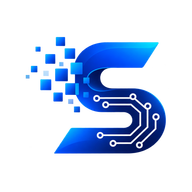
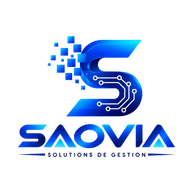
feat(pwa): add premium SAOVIA splash screen (Android + iOS)
Adds a standalone-only PWA launch splash (PwaSplashScreen.tsx), shown
purely via a `@media (display-mode: standalone)` CSS rule so a regular
browser tab is never affected. Visibility is gated on the real `load`
event (plus a floor for smoothness and a safety cap so it can never
block the app), not a bare setTimeout.

- Manifest: background_color #071B49, theme_color #0B5ED7,
  orientation portrait-primary, maskable icon entry.
- iOS: apple-mobile-web-app-* meta tags, apple-touch-icon link,
  viewport-fit=cover for safe-area support.
- All icons (pwa-192/512, maskable-512, apple-touch-icon) and the
  splash logo regenerated from the official SAOVIA logo via
  scripts/generate-pwa-assets.mjs — trimmed and re-centered on its own
  transparent/navy canvas, never redrawn.

Changed region(s): [[0.0938, 0.1875, 0.9062, 0.8438], [0.1562, 0.2188, 0.2188, 0.2812]]

diff --git a/src/routes/__root.tsx b/src/routes/__root.tsx
@@ -80,6 +80,22 @@ function isRestaurantRoute(pathname: string) {
   return pathname === "/restaurant" || pathname.startsWith("/restaurant/");
 }
 
+// Vitrine publique de commande d'un restaurant (/r/:tenantSlug). Entièrement
+// anonyme (aucune session ERP/Hôtel ni Restaurant admin requise) : le tenant
+// est résolu depuis le slug de l'URL via restaurantSupabase, jamais depuis
+// une session.
+function isPublicOrderingRoute(pathname: string) {
+  return pathname === "/r" || pathname.startsWith("/r/");
+}
+
+// Vitrine publique SAOVIA Hôtel (/hotel-vitrine, /hotel-vitrine/hotels,
+// /hotel-vitrine/hotels/:slug). Entièrement anonyme, sans rapport avec le
+// back-office /hotel/* (qui reste protégé par la garde ci-dessous) : chaque
+// tenant est résolu depuis son slug public, jamais depuis une session.
+function isHotelVitrineRoute(pathname: string) {
+  return pathname === "/hotel-vitrine" || pathname.startsWith("/hotel-vitrine/");
+}
+
 const publicRoutes = new Set([
   "/",
   "/fonctionnalites",
@@ -183,7 +199,12 @@ export const Route = createRootRouteWithContext<{ queryClient: QueryClient }>()(
       session: !!session,
     });
 
-    if (isPublicRoute(location.pathname) || isRestaurantRoute(location.pathname)) {
+    if (
+      isPublicRoute(location.pathname) ||
+      isRestaurantRoute(location.pathname) ||
+      isPublicOrderingRoute(location.pathname) ||
+      isHotelVitrineRoute(location.pathname)
+    ) {
       return;
     }
 
@@ -362,7 +383,10 @@ export const Route = createRootRouteWithContext<{ queryClient: QueryClient }>()(
   head: () => ({
     meta: [
       { charSet: "utf-8" },
-      { name: "viewport", content: "width=device-width, initial-scale=1" },
+      {
+        name: "viewport",
+        content: "width=device-width, initial-scale=1, viewport-fit=cover",
+      },
       { title: PLATFORM_BRANDING.name },
       {
         name: "description",
@@ -392,10 +416,14 @@ export const Route = createRootRouteWithContext<{ queryClient: QueryClient }>()(
         content: socialLogoUrl,
       },
       { name: "theme-color", content: PLATFORM_BRANDING.primaryColor },
+      { name: "apple-mobile-web-app-capable", content: "yes" },
+      { name: "apple-mobile-web-app-status-bar-style", content: "black-translucent" },
+      { name: "apple-mobile-web-app-title", content: PLATFORM_BRANDING.shortName },
     ],
     links: [
       { rel: "stylesheet", href: appCss },
       { rel: "icon", href: PLATFORM_BRANDING.assets.favicon, type: "image/png", sizes: "32x32" },
+      { rel: "apple-touch-icon", href: "/icons/apple-touch-icon.png" },
       { rel: "manifest", href: "/manifest.webmanifest" },
       { rel: "preconnect", href: "https://fonts.googleapis.com" },
       { rel: "preconnect", href: "https://fonts.gstatic.com", crossOrigin: "anonymous" },
@@ -418,6 +446,7 @@ function RootShell({ children }: { children: ReactNode }) {
         <HeadContent />
       </head>
       <body>
+        <PwaSplashScreen />
         {children}
         <Scripts />
       </body>
@@ -426,6 +455,7 @@ function RootShell({ children }: { children: ReactNode }) {
 }
 
 import { DynamicFavicon } from "@/components/mms/DynamicFavicon";
+import { PwaSplashScreen } from "@/components/pwa/PwaSplashScreen";
 import { PwaUpdatePrompt } from "@/components/pwa/PwaUpdatePrompt";
 import { useDocumentTitle } from "@/hooks/use-document-title";
 import { PosthogRootProvider } from "@/lib/posthog";
@@ -451,7 +481,10 @@ function RootComponent() {
     select: (location) => isPublicRoute(location.pathname),
   });
   const isRestaurantArea = useLocation({
-    select: (location) => isRestaurantRoute(location.pathname),
+    select: (location) => isRestaurantRoute(location.pathname) || isPublicOrderingRoute(location.pathname),
+  });
+  const isHotelVitrineArea = useLocation({
+    select: (location) => isHotelVitrineRoute(location.pathname),
   });
 
   useEffect(() => {
@@ -534,7 +567,7 @@ function RootComponent() {
       <PwaUpdatePrompt />
       <ThemeProvider>
         <PosthogRootProvider>
-          {isPlatformArea || isPublicArea || isRestaurantArea ? (
+          {isPlatformArea || isPublicArea || isRestaurantArea || isHotelVitrineArea ? (
             <>
               <DynamicFavicon platform />
               <DocumentTitleManager />

diff --git a/src/components/pwa/PwaSplashScreen.tsx b/src/components/pwa/PwaSplashScreen.tsx
@@ -1,0 +1,89 @@
+import { useEffect, useState } from "react";
+
+// Minimum time the splash stays visible once shown, purely so the fade-in
+// doesn't get cut off by a fast load — never the reason it disappears.
+const MIN_VISIBLE_MS = 500;
+// Safety cap: if `load` never fires (slow network, a stalled request), the
+// splash still leaves on its own so it can never block the app.
+const MAX_WAIT_MS = 2500;
+const FADE_OUT_MS = 400;
+
+type Phase = "visible" | "leaving" | "gone";
+
+// Rendered unconditionally (including during SSR) so the markup exists in
+// the very first HTML: whether it's actually shown is decided purely by the
+// `@media (display-mode: standalone)` CSS rule in styles.css, not by JS.
+// That means a plain browser tab never sees this component do anything —
+// only an installed/home-screen-launched SAOVIA shows it. It mounts once
+// per full document load (TanStack Router client-side navigations don't
+// remount the root), so it never reappears on a route change.
+export function PwaSplashScreen() {
+  const [phase, setPhase] = useState<Phase>("visible");
+
+  useEffect(() => {
+    if (typeof window === "undefined") return;
+
+    const start = Date.now();
+    let settled = false;
+
+    const leave = () => {
+      if (settled) return;
+      settled = true;
+      const elapsed = Date.now() - start;
+      const remaining = Math.max(0, MIN_VISIBLE_MS - elapsed);
+      window.setTimeout(() => setPhase("leaving"), remaining);
+    };
+
+    // The real signal: the document and its initial resources (styles,
+    // fonts, first images) have actually finished loading.
+    if (document.readyState === "complete") {
+      leave();
+    } else {
+      window.addEventListener("load", leave, { once: true });
+    }
+
+    // Safety net only — not the primary condition. Guarantees the splash
+    // never blocks the app if `load` is unusually slow to fire.
+    const maxWaitTimer = window.setTimeout(leave, MAX_WAIT_MS);
+
+    return () => {
+      window.removeEventListener("load", leave);
+      window.clearTimeout(maxWaitTimer);
+    };
+  }, []);
+
+  useEffect(() => {
+    if (phase !== "leaving") return;
+    const timer = window.setTimeout(() => setPhase("gone"), FADE_OUT_MS);
+    return () => window.clearTimeout(timer);
+  }, [phase]);
+
+  if (phase === "gone") return null;
+
+  return (
+    <div
+      className="pwa-splash fixed inset-0 z-[9999] flex-col items-center justify-center bg-[#071B49]"
+      data-leaving={phase === "leaving" ? "true" : undefined}
+      aria-hidden="true"
+    >
+      <div
+        className="flex flex-col items-center justify-center px-6"
+        style={{
+          paddingTop: "env(safe-area-inset-top)",
+          paddingBottom: "env(safe-area-inset-bottom)",
+          paddingLeft: "env(safe-area-inset-left)",
+          paddingRight: "env(safe-area-inset-right)",
+        }}
+      >
+        <img
+          src="/splash/saovia-splash-logo.png"
+          alt="SAOVIA"
+          className="pwa-splash-logo h-auto w-44 max-w-[60vw] sm:w-56"
+          width={700}
+          height={556}
+          decoding="async"
+        />
+      </div>
+    </div>
+  );
+}

diff --git a/src/styles.css b/src/styles.css
@@ -317,3 +317,93 @@
     display: none;
   }
 }
+
+/* Discreet, spaced-out "available to chat" ring for the WhatsApp button. */
+@keyframes whatsapp-pulse-ring {
+  0% {
+    transform: scale(1);
+    opacity: 0.45;
+  }
+  30% {
+    transform: scale(1.6);
+    opacity: 0;
+  }
+  100% {
+    transform: scale(1.6);
+    opacity: 0;
+  }
+}
+
+.whatsapp-pulse-ring {
+  z-index: -1;
+  animation: whatsapp-pulse-ring 3.6s ease-out infinite;
+}
+
+@media (prefers-reduced-motion: reduce) {
+  .whatsapp-pulse-ring {
+    animation: none;
+    display: none;
+  }
+
+  .whatsapp-fab {
+    transition-property: box-shadow;
+  }
+
+  .whatsapp-fab:hover,
+  .whatsapp-fab:active {
+    transform: none;
+  }
+}
+
+/*
+ * PWA launch splash (src/components/pwa/PwaSplashScreen.tsx).
+ *
+ * Hidden by default (regular browser tab: zero footprint, zero layout
+ * cost). Only ever shown when the page is actually running as an installed
+ * PWA (`display-mode: standalone`), where it bridges the moment between the
+ * OS-drawn native splash (Android's automatic manifest splash / the raw SSR
+ * HTML on iOS) and the app becoming interactive. It never re-appears on
+ * client-side route changes: PwaSplashScreen only ever transitions
+ * visible -> leaving -> unmounted, once per full document load.
+ */
+.pwa-splash {
+  display: none;
+  opacity: 1;
+  transition: opacity 400ms ease-in-out;
+}
+
+@media (display-mode: standalone) {
+  .pwa-splash {
+    display: flex;
+  }
+}
+
+.pwa-splash[data-leaving="true"] {
+  opacity: 0;
+  pointer-events: none;
+}
+
+@keyframes pwa-splash-logo-in {
+  from {
+    opacity: 0;
+    transform: scale(0.92);
+  }
+  to {
+    opacity: 1;
+    transform: scale(1);
+  }
+}
+
+.pwa-splash-logo {
+  animation: pwa-splash-logo-in 500ms ease-out both;
+}
+
+@media (prefers-reduced-motion: reduce) {
+  .pwa-splash {
+    transition: none;
+  }
+
+  .pwa-splash-logo {
+    animation: none;
+  }
+}

diff --git a/vite.config.ts b/vite.config.ts
@@ -38,11 +38,18 @@ export default defineConfig({
         lang: "fr",
         start_url: "/",
         display: "standalone",
-        background_color: "#0B1F4D",
-        theme_color: "#0B1F4D",
+        orientation: "portrait-primary",
+        background_color: "#071B49",
+        theme_color: "#0B5ED7",
         icons: [
-          { src: "/pwa-192x192.png", sizes: "192x192", type: "image/png" },
-          { src: "/pwa-512x512.png", sizes: "512x512", type: "image/png" },
+          { src: "/pwa-192x192.png", sizes: "192x192", type: "image/png", purpose: "any" },
+          { src: "/pwa-512x512.png", sizes: "512x512", type: "image/png", purpose: "any" },
+          {
+            src: "/icons/saovia-maskable-512.png",
+            sizes: "512x512",
+            type: "image/png",
+            purpose: "maskable",
+          },
         ],
       },
       workbox: {
